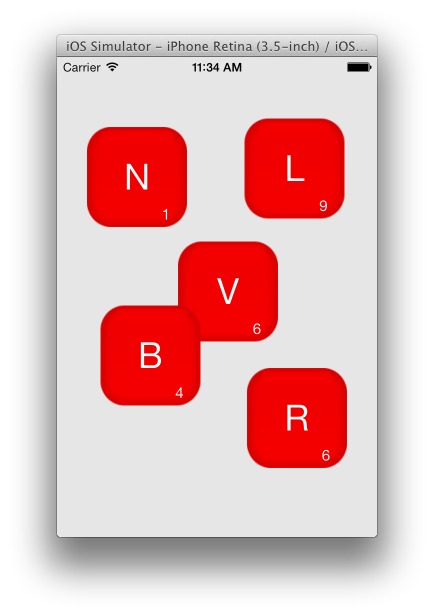
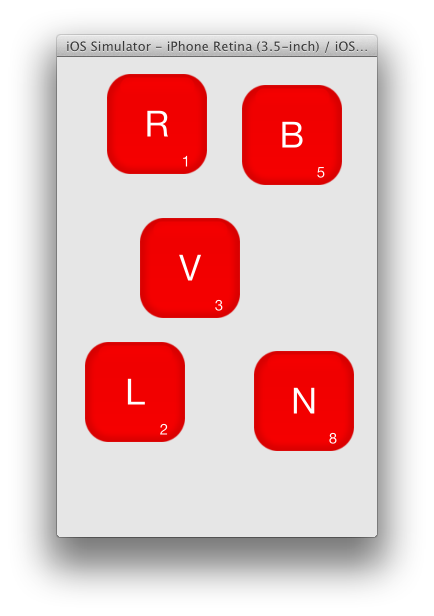
Hide the status bar

Changed region(s): [[0.1498, 0.0925, 0.8387, 0.7711], [0.7788, 0.0925, 0.8687, 0.1234]]

diff --git a/README.md b/README.md
@@ -59,8 +59,8 @@ and then run in the project dir:
 
 ![screenshot](https://raw.github.com/afarber/ios-newbie/master/Scroll/screenshot.png)
 
-Uses an SVG file by Denelson83, 
-[Wikimedia Commons](http://en.wikipedia.org/wiki/File:Blank_Scrabble_board_with_coordinates.svg)
+Uses an SVG file by 
+[Denelson83, Wikimedia Commons](http://en.wikipedia.org/wiki/File:Blank_Scrabble_board_with_coordinates.svg)
 
 [SpriteKitTest](https://github.com/afarber/ios-newbie/tree/master/SpriteKitTest):
 
